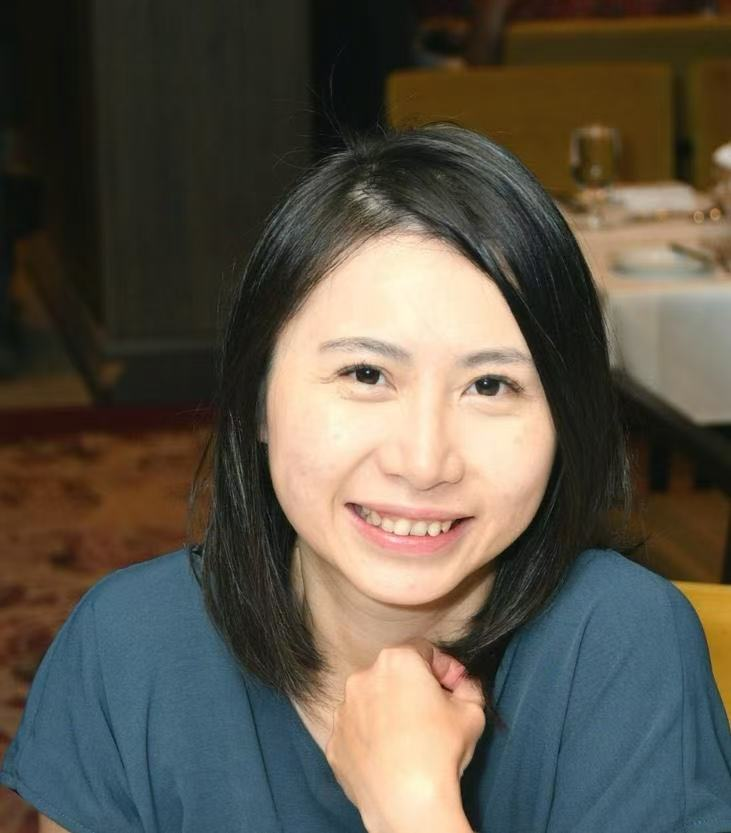
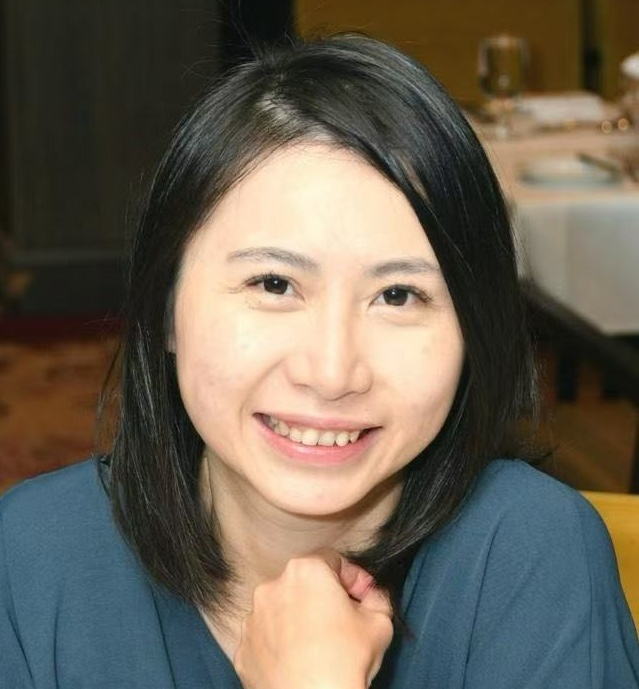
Update team photos

diff --git a/script.js b/script.js
@@ -16,6 +16,8 @@ const podcastData = {
     {
       name: "Jane McGhee",
       role: "Facilitator",
+      imageSrc: "./assets/jane.jpg",
+      imagePosition: "center 18%",
     },
     {
       name: "Ilam Muralidharan",
@@ -33,12 +35,12 @@ const podcastData = {
       name: "Cindy Ng",
       role: "Contributor",
       imageSrc: "./assets/cindy.jpg",
-      imagePosition: "center 30%",
+      imagePosition: "center 18%",
     },
     {
       name: "Yumeng Sun",
       role: "Contributor",
-      imageSrc: "./assets/yumeng-portrait.jpg",
+      imageSrc: "./assets/yumeng.jpg",
       imagePosition: "center 18%",
     },
   ],
@@ -269,6 +271,7 @@ function renderHosts() {
       image.loading = "lazy";
       image.decoding = "async";
       image.style.objectPosition = host.imagePosition || "center";
+      image.style.transform = `scale(${host.imageScale || 1})`;
       avatar.appendChild(image);
     } else {
       avatar.textContent = initialsFromName(host.name);
